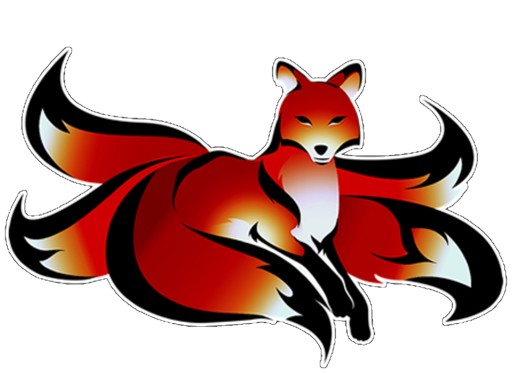
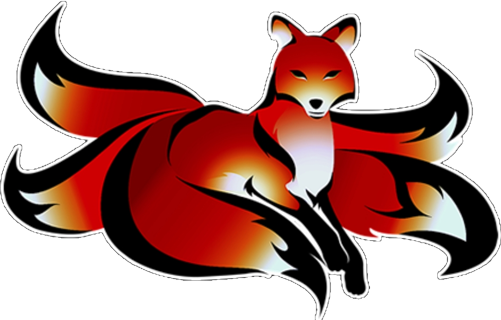
Information

diff --git a/main.py b/main.py
@@ -34,8 +34,8 @@ class MainTamg:
 
     def start_coords(self):
         """Стартовые координаты питомца"""
-        return (30, 200)
-    
+        return (30, 250)
+
     def add_CP(self):
         """Добавление Боевой Мощи"""
         self.combat_power += 10
@@ -60,9 +60,12 @@ def main():
     
     running = True
     
-    background = pygame.image.load("background_1.jpg").convert()
+    background = tamg.image_to_alpha("background_1_new.png")
     image = tamg.image_to_alpha("fox/fox_main_lvl1.png") # выбери сам если не нравится
     image = pygame.transform.scale(image, (500, 300))
+    
+    fullscreen = tamg.image_to_alpha("fullscreen.png")
+    fullscreen_rect = fullscreen.get_rect(topleft=(531, 280))
     
     walk_right = tamg.run_right()
     walk_left = tamg.run_left()
@@ -76,6 +79,10 @@ def main():
     jump_count = 8
     
     walk = walk_right[:]
+    
+    label = pygame.font.Font(size=40)
+    info = label.render("Information", False, "green")
+    info_rect = info.get_rect(topleft=(870, 340))
     
     while running:
         screen.fill((255, 255, 255)) # (65, 138, 65) / (92, 163, 92) / (54, 92, 54) / выбери сам / (52, 64, 52)
@@ -124,8 +131,27 @@ def main():
                 jump_f = False
                 jump_count = 8
         
+        """Information"""
+        pygame.draw.line(screen, "black", (571, 317), (x, 317), 3)
+        pygame.draw.line(screen, "black", (426, 320), (426, y), 2)
+        pygame.draw.line(screen, "black", (853, 320), (853, y), 2)
         
-        pygame.draw.line(screen, "black", (500, 300), (x, 300), 2)
+        info_x = label.render(f"Позиция x: {player_x}", False, "green")
+        info_y = label.render(f"Позиция y: {player_y}", False, "green")
+        info_speed = label.render(f"Скорость перемещения: {player_speed}", False, "green")
+        info_x_rect = info_x.get_rect(topleft=(870, 380))
+        info_y_rect = info_y.get_rect(topleft=(870, 420))
+        info_speed_rect = info_speed.get_rect(topleft=(870, 460))
+        
+        screen.blit(info, info_rect)
+        screen.blit(info_x, info_x_rect)
+        screen.blit(info_y, info_y_rect)
+        screen.blit(info_speed, info_speed_rect)
+        """Information finish"""
+        
+        
+        """Fullscreen, Enemy, etc"""
+        screen.blit(fullscreen, fullscreen_rect)
         
         pygame.display.update()
         
